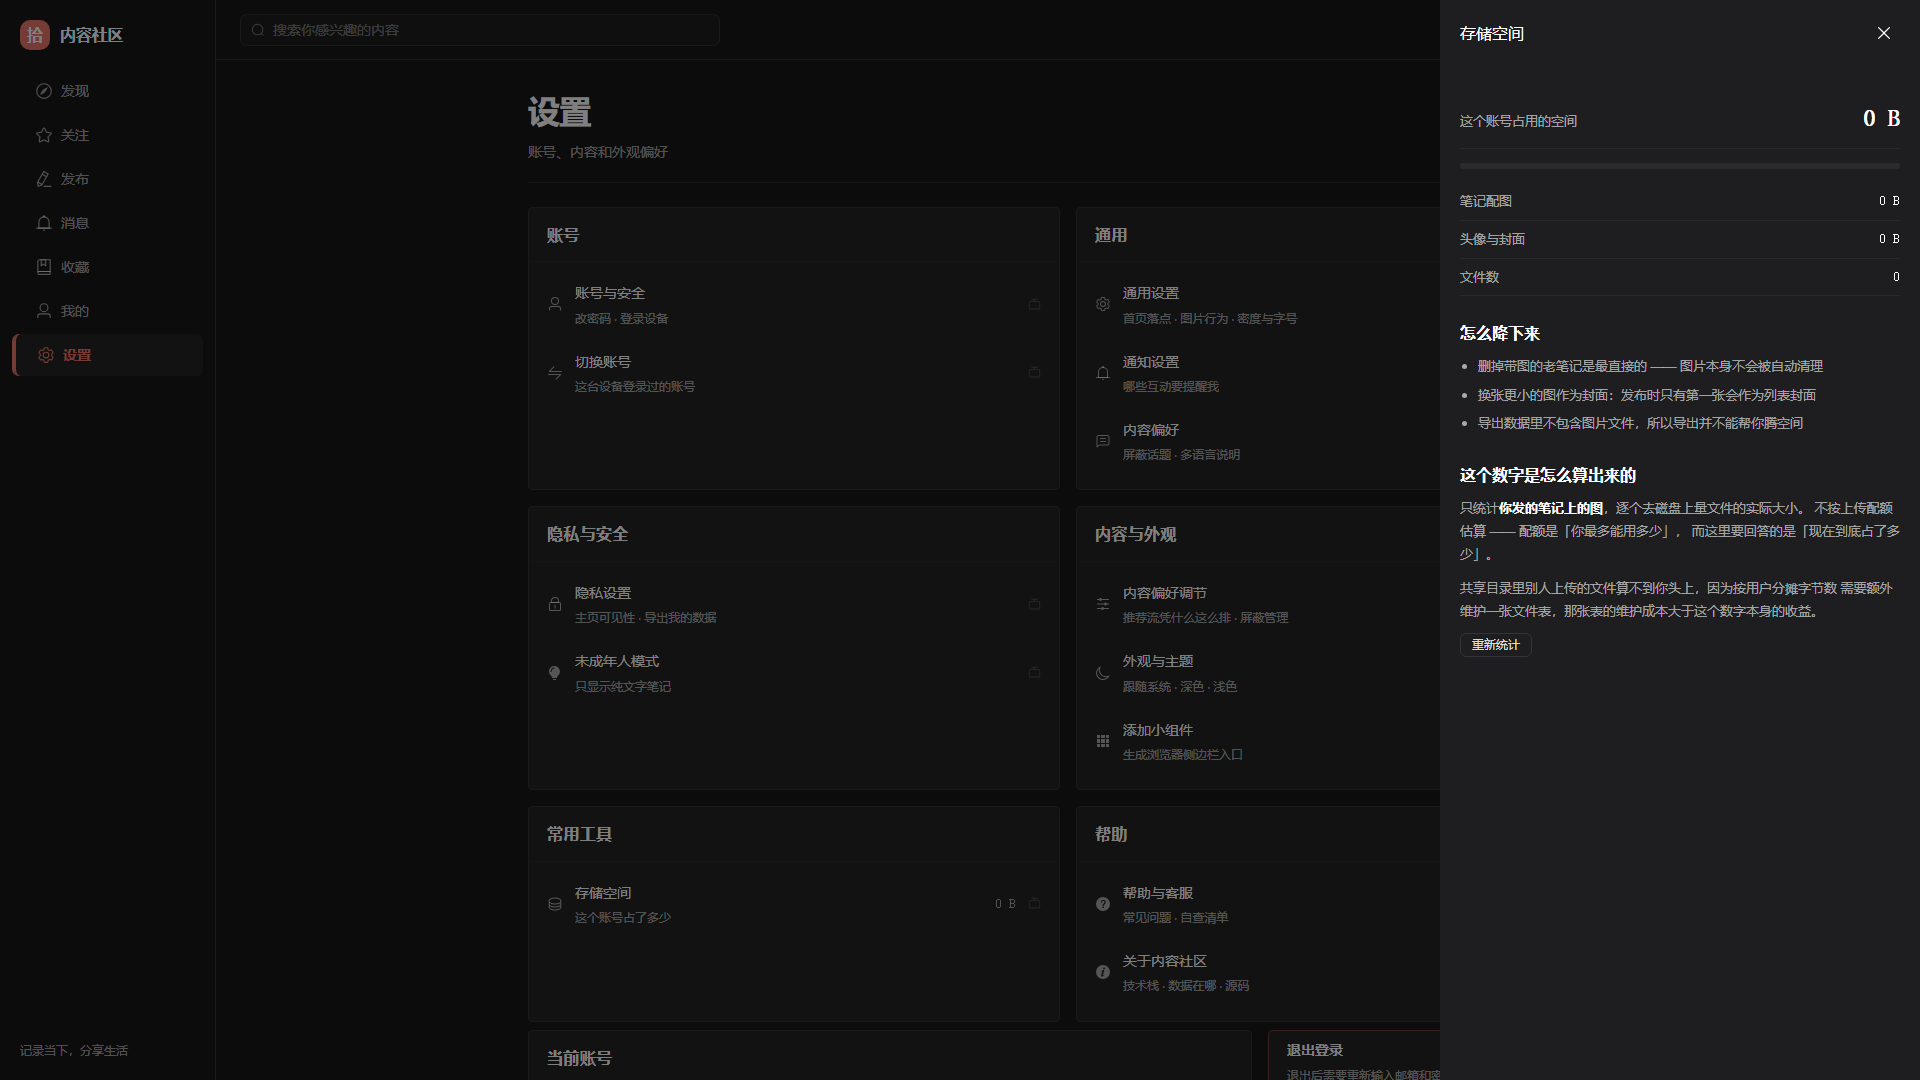
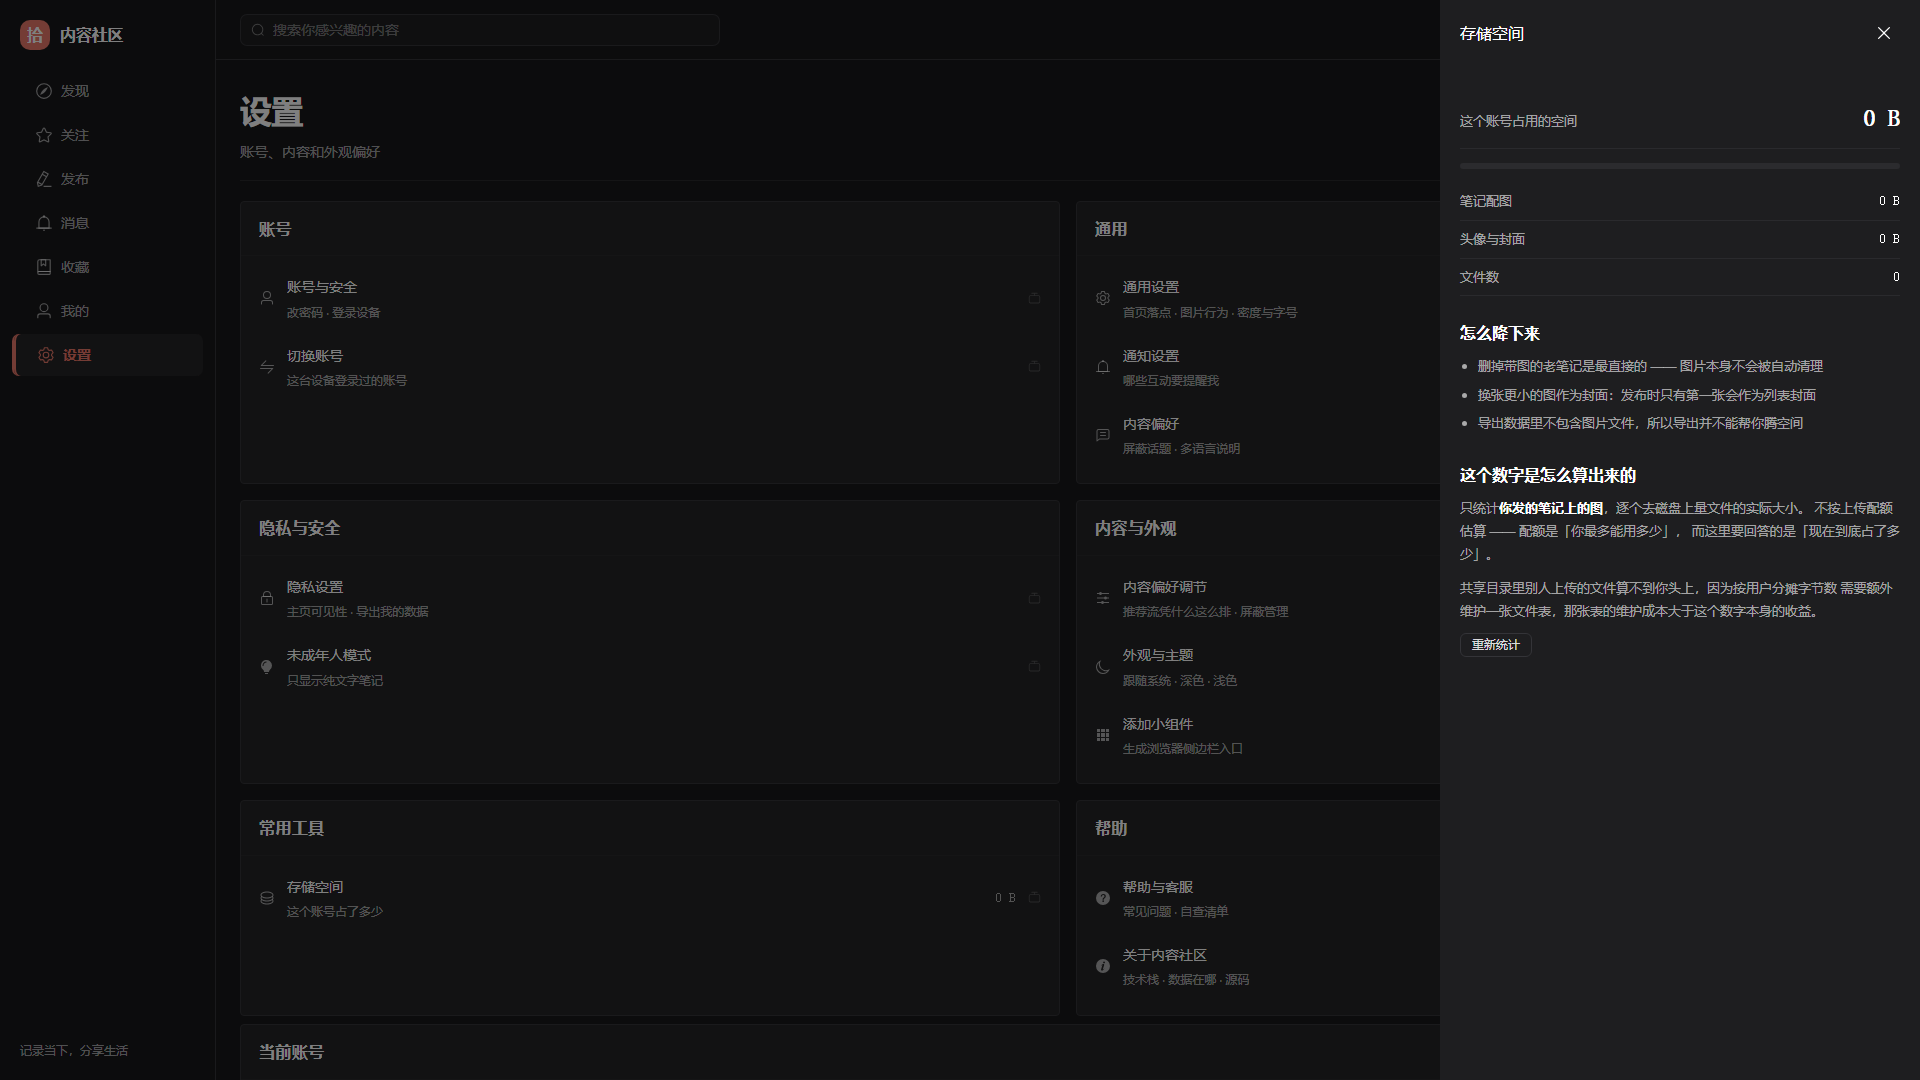
style(layout): 设置/收藏页头统一到消息/发布那套
用户给了三张截图：消息、收藏、设置，指出布局不一致，要对齐消息和发布。

实测四页 DOM 确认了两处差异：
1. 设置页根容器 max-width + margin:0 auto → 缩成中间一条，
   其余三页都是 width:100% / max-width:none / margin:0
2. 收藏页统计是白底卡包着两列大数字，消息/发布是纯文本
   「<b>数字</b> 说明」直接排在页头右侧

- SettingsView 去 max-width，页头套 .head-line：左标题副标题、右
  「6 组设置 / 13 个选项」纯文本统计，保留下方细线收口
- FavoritesView 页头同样套 .head-line，统计去白底卡改纯文本；
  标题从 --fs-xl/600 提到 --fs-display/700 与其余三页一致
- 补 1 条收藏页结构测试（head-line 存在、统计不再有 .stat 白块）
- 实测四页 rootW 全 1176、标题全 32px、统计背景全透明，零 console error
- 重拍 22 张配图

diff --git a/client/src/views/FavoritesView.vue b/client/src/views/FavoritesView.vue
@@ -201,19 +201,19 @@ onMounted(reload)
 <template>
   <div class="fav-manage">
     <header class="head">
-      <div class="head-copy">
-        <h1 class="title">收藏</h1>
-        <p class="subtitle">收藏只有自己可见，可以按主题归进收藏夹</p>
-      </div>
-      <div class="head-stats" aria-label="收藏概览">
-        <div class="stat">
-          <b class="stat-num">{{ allCount }}</b>
-          <span class="stat-label">篇收藏</span>
+      <div class="head-line">
+        <div class="head-copy">
+          <h1 class="title">收藏</h1>
+          <p class="subtitle">收藏只有自己可见，可以按主题归进收藏夹</p>
         </div>
-        <span class="stat-sep" aria-hidden="true"></span>
-        <div class="stat">
-          <b class="stat-num">{{ folders.length }}</b>
-          <span class="stat-label">个收藏夹</span>
+        <!-- 统计锚点和消息/发布页同一套：纯文本 + 大数字，不套白底卡 -->
+        <div class="head-stats" aria-label="收藏概览">
+          <span
+            ><b>{{ allCount }}</b> 篇收藏</span
+          >
+          <span
+            ><b>{{ folders.length }}</b> 个收藏夹</span
+          >
         </div>
       </div>
     </header>
@@ -446,14 +446,18 @@ onMounted(reload)
   padding: 24px 0 48px;
 }
 
-/* 页头：左边文案、右边概览数字，一个明确的视觉锚点。
-   原来只有一行小标题，整页从左往右「塌」下去，没有重心 */
+/* 页头：和消息/发布同一套布局语言 —— 标题+副标题在左、概览数字在右，
+   统计用纯文本不加白底卡，三页放一起看才是同一种页面。
+   原来这里是「白底卡包着两列大数字」，和消息页的纯文本统计明显不是一回事。 */
 .head {
-  display: flex;
-  align-items: center;
-  justify-content: space-between;
-  gap: 20px;
   margin-bottom: 20px;
+}
+
+.head-line {
+  display: flex;
+  align-items: flex-end;
+  justify-content: space-between;
+  gap: 24px;
 }
 
 .head-copy {
@@ -462,53 +466,33 @@ onMounted(reload)
 
 .title {
   margin: 0;
-  font-size: var(--fs-xl);
-  font-weight: 600;
-  letter-spacing: -0.01em;
+  font-size: var(--fs-display);
+  font-weight: 700;
+  letter-spacing: -0.02em;
   color: var(--foreground);
 }
 
 .subtitle {
-  margin: 4px 0 0;
-  font-size: var(--fs-sm);
+  margin: 6px 0 0;
+  font-size: var(--fs-base);
   color: var(--muted-foreground);
 }
 
 .head-stats {
   display: flex;
-  align-items: center;
   gap: 18px;
-  flex-shrink: 0;
-  padding: 10px 18px;
-  background: var(--surface-1);
-  border: 1px solid var(--border-soft);
-  border-radius: var(--radius-lg);
-}
-
-.stat {
-  display: flex;
-  flex-direction: column;
-  align-items: center;
-  gap: 2px;
-}
-
-.stat-num {
-  font-family: var(--font-numeric);
-  font-size: var(--fs-xl);
-  font-weight: 600;
-  line-height: 1.1;
-  color: var(--foreground);
-}
-
-.stat-label {
-  font-size: var(--fs-2xs);
+  flex-wrap: wrap;
+  font-size: var(--fs-xs);
   color: var(--muted-foreground);
+  white-space: nowrap;
 }
 
-.stat-sep {
-  width: 1px;
-  height: 28px;
-  background: var(--border-soft);
+.head-stats b {
+  margin-right: 3px;
+  font-size: var(--fs-md);
+  font-weight: 700;
+  color: var(--foreground);
+  font-variant-numeric: tabular-nums;
 }
 
 /* ===== 筛选条 =====

diff --git a/client/src/views/SettingsView.vue b/client/src/views/SettingsView.vue
@@ -333,8 +333,21 @@ onMounted(async () => {
 <template>
   <div class="settings">
     <header class="page-header">
-      <h1 class="page-title">设置</h1>
-      <p class="page-subtitle">账号、内容和外观偏好</p>
+      <div class="head-line">
+        <div>
+          <h1 class="page-title">设置</h1>
+          <p class="page-subtitle">账号、内容和外观偏好</p>
+        </div>
+        <!-- 统计锚点：和消息/发布页同一套语言，页头右侧不留空 -->
+        <div class="head-stats">
+          <span
+            ><b>{{ groups.length }}</b> 组设置</span
+          >
+          <span
+            ><b>{{ groups.reduce((n, g) => n + g.items.length, 0) }}</b> 个选项</span
+          >
+        </div>
+      </div>
     </header>
 
     <!-- 读取失败的提示：可关闭，且不挡住下面的界面 -->
@@ -579,19 +592,46 @@ onMounted(async () => {
 </template>
 
 <style scoped>
+/* 2026-11-27：铺满可用宽度，和消息/发布/收藏同一套页面布局。
+   原来 max-width + margin auto 让设置缩在中间一条，和其余页对不齐。 */
 .settings {
-  max-width: var(--content-max-width);
-  margin: 0 auto;
+  width: 100%;
+  padding-bottom: 48px;
 }
 
 .load-alert {
   margin-bottom: 16px;
 }
 
+/* 页头与消息/发布同一套：标题+副标题在左、统计在右、下方细线收口 */
 .page-header {
-  margin-bottom: 24px;
-  padding-bottom: 18px;
+  margin-bottom: 20px;
+  padding-bottom: 16px;
   border-bottom: 1px solid var(--border-soft);
+}
+
+.head-line {
+  display: flex;
+  align-items: flex-end;
+  justify-content: space-between;
+  gap: 24px;
+}
+
+.head-stats {
+  display: flex;
+  gap: 18px;
+  flex-wrap: wrap;
+  font-size: var(--fs-xs);
+  color: var(--muted-foreground);
+  white-space: nowrap;
+}
+
+.head-stats b {
+  margin-right: 3px;
+  font-size: var(--fs-md);
+  font-weight: 700;
+  color: var(--foreground);
+  font-variant-numeric: tabular-nums;
 }
 
 .page-title {
@@ -599,13 +639,13 @@ onMounted(async () => {
   font-weight: 700;
   letter-spacing: -0.02em;
   margin: 0;
-  color: var(--text-1);
+  color: var(--foreground);
 }
 
 .page-subtitle {
   margin: 6px 0 0;
   font-size: var(--fs-base);
-  color: var(--text-2);
+  color: var(--muted-foreground);
 }
 
 /* ===== 分组卡 ===== */

diff --git a/client/tests/favorites-view.test.ts b/client/tests/favorites-view.test.ts
@@ -131,6 +131,20 @@ beforeEach(() => {
 })
 
 describe('加载与渲染', () => {
+  it('页头和消息/发布同一套：标题副标题在左、统计是纯文本在右', async () => {
+    // 收藏原来用「白底卡包着两列大数字」，和消息页的纯文本统计明显不是一回事。
+    // 这里只锁结构不锁数值：以后谁把 head-line 拆掉或给统计套回白框，立刻红。
+    const w = mountView()
+    await flushPromises()
+
+    expect(w.find('.head .head-line').exists()).toBe(true)
+    const stats = w.find('.head-stats')
+    expect(stats.exists()).toBe(true)
+    expect(stats.findAll('.stat')).toHaveLength(0) // 旧的白底 stat 块
+    expect(stats.text()).toContain('篇收藏')
+    expect(stats.text()).toContain('个收藏夹')
+  })
+
   it('首屏按「全部」拉第一页，并把夹列表一起拿回来', async () => {
     mountView()
     await flushPromises()
